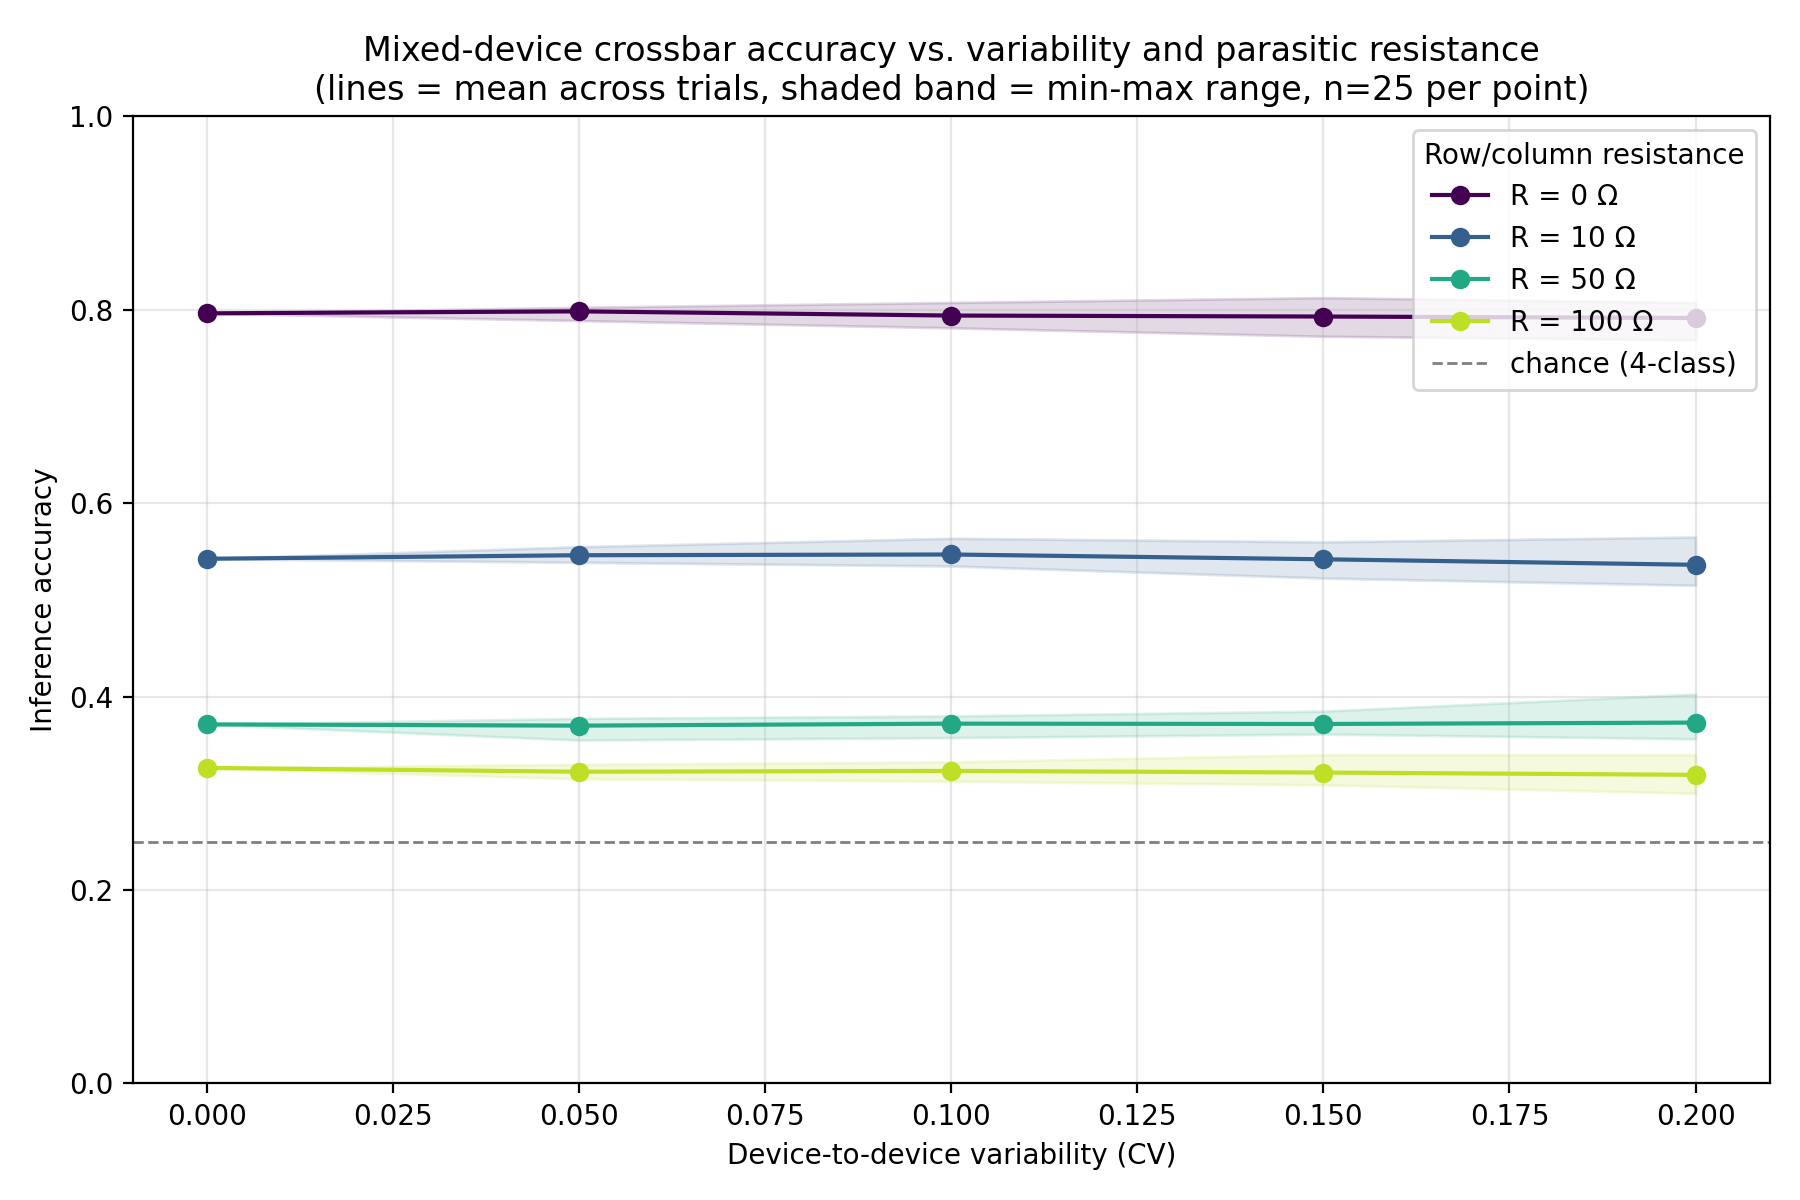
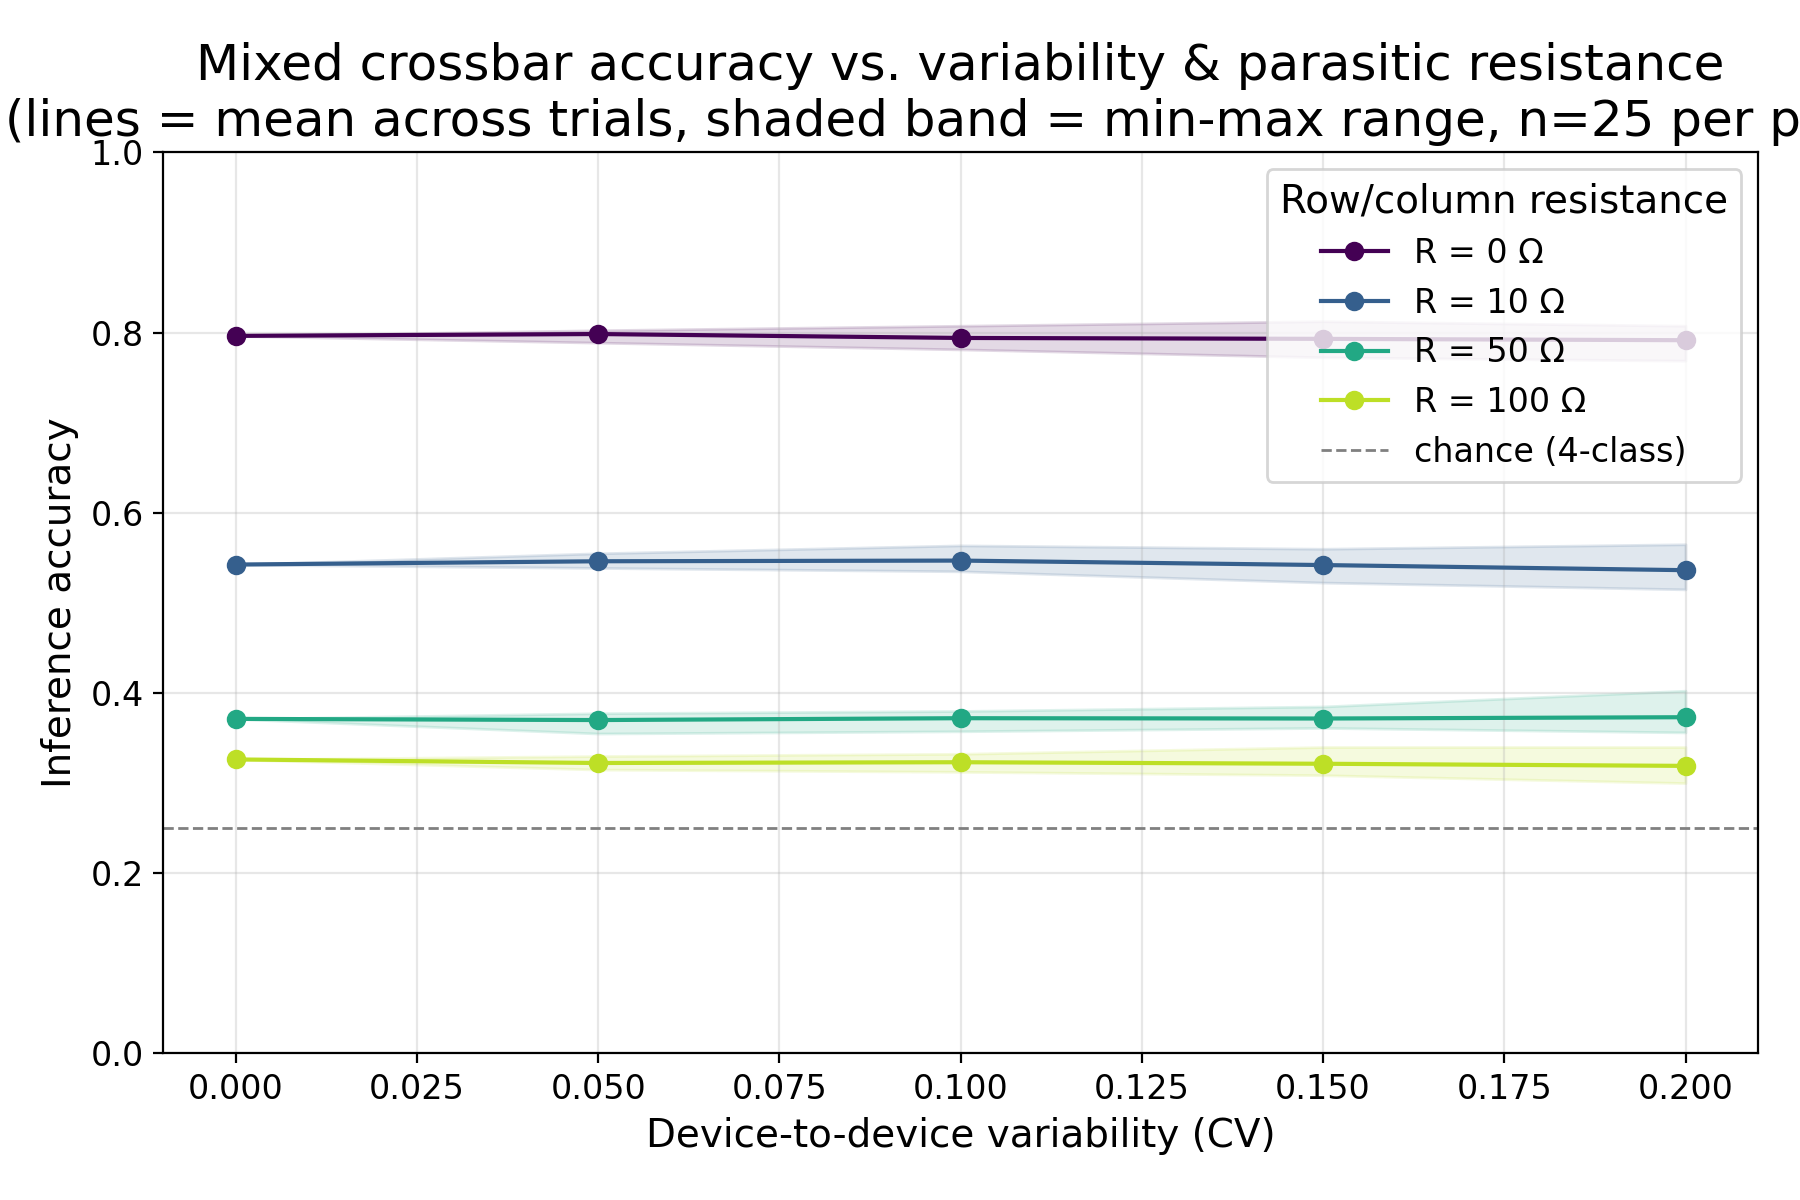
cleaning up directorys

Changed region(s): [[0.0, 0.0308, 1.0, 0.9867], [0.7778, 0.37, 0.9333, 0.4008]]

diff --git a/Sandbox/pakagedGoods/fractional_memcapacitor/plotting.py b/Sandbox/pakagedGoods/fractional_memcapacitor/plotting.py
@@ -53,9 +53,14 @@ def plot_validation_suiteV0(model, t_end=5.0, freq=1.0, Q_amp=100e-9, n_points=1
     sims = {a: model.simulate(t_end=t_end, freq=freq, Q_amp=Q_amp,
                               alpha=a, n_points=n_points) for a in alphas}
  
-    fig = plt.figure(figsize=(18, 10))
+    fig = plt.figure(figsize=(18, 5.8))
     fig.patch.set_facecolor('#0f0f1a')
-    gs = gridspec.GridSpec(2, 3, figure=fig, hspace=0.5, wspace=0.38)
+    gs = gridspec.GridSpec(
+        1, 3,
+        figure=fig,
+        wspace=0.65   # was 0.55
+    )
+    fig.subplots_adjust(left=0.05, right=0.98, bottom=0.16, top=0.90, wspace=0.70)
  
     def style(ax):
         ax.set_facecolor('#1a1a2e')
@@ -69,18 +74,38 @@ def plot_validation_suiteV0(model, t_end=5.0, freq=1.0, Q_amp=100e-9, n_points=1
         ax.set_title(title, color='white', fontsize=10)
  
     # ── 1: x(t) and C(t) dual-axis ──
-    ax1  = fig.add_subplot(gs[0, 0])
+    ax1 = fig.add_subplot(gs[0, 0])
     ax1b = ax1.twinx()
+
     style(ax1)
+    style(ax1b)
+
+    # Move the secondary axis farther to the right
+    ax1b.spines["right"].set_position(("axes", 1.10))
+
     for a, col in zip(alphas, colors):
         t, q, x, v, i = sims[a]
-        ax1.plot(t, np.clip(x, 0, 1), color=col, lw=1.6, label=f'α={a}')
-        ax1b.plot(t, model.C(x) * 1e9, color=col, lw=1.0, ls='--', alpha=0.45)
-    ax1b.set_ylabel('C (nF)', color='#aaa')
+        ax1.plot(t, np.clip(x, 0, 1),
+                color=col, lw=1.6, label=f'α={a}')
+        ax1b.plot(t, model.C(x) * 1e9,
+                color=col, lw=1.0, ls='--', alpha=0.45)
+
+    ax1.set_ylabel('state x', color='white')
+
+    # Push the label well away from the neighboring subplot
+    ax1b.set_ylabel('C (nF)', color='#aaa', labelpad=22)
+    ax1b.yaxis.set_label_coords(1.20, 0.5)
     ax1b.tick_params(colors='#aaa')
-    label(ax1, 't (s)', 'state x', 'x(t) & C(t)  [solid=x, dashed=C]')
-    ax1.legend(fontsize=7, loc='upper right',
-               facecolor='#1a1a2e', labelcolor='white', framealpha=0.6)
+
+    ax1.set_xlabel('t (s)', color='white')
+    ax1.set_title('x(t) & C(t)  [solid=x, dashed=C]',
+                color='white', fontsize=10)
+
+    ax1.legend(fontsize=7,
+            loc='upper right',
+            facecolor='#1a1a2e',
+            labelcolor='white',
+            framealpha=0.6)
  
     # ── 2: pinched hysteresis q-v ──
     ax2 = fig.add_subplot(gs[0, 1])
@@ -92,6 +117,7 @@ def plot_validation_suiteV0(model, t_end=5.0, freq=1.0, Q_amp=100e-9, n_points=1
     ax2.axhline(0, color='#555', lw=0.5)
     ax2.axvline(0, color='#555', lw=0.5)
     label(ax2, 'v (V)', 'q (nC)', 'q-v Pinched Hysteresis')
+    ax2.yaxis.set_label_coords(-0.14, 0.5)
     ax2.legend(fontsize=7, facecolor='#1a1a2e', labelcolor='white', framealpha=0.6)
  
     # ── 3: loop area vs alpha sweep ──
@@ -121,47 +147,8 @@ def plot_validation_suiteV0(model, t_end=5.0, freq=1.0, Q_amp=100e-9, n_points=1
     label(ax3, 'α', 'loop area (nC·V)', 'Hysteresis Area vs α')
     ax3.legend(fontsize=7, facecolor='#1a1a2e', labelcolor='white', framealpha=0.6)
  
-    # ── 4: C(t) colored by x at alpha=0.5 ──
-    ax4 = fig.add_subplot(gs[1, 0])
-    style(ax4)
-    t, q, x, v, i = sims[0.50]
-    sc = ax4.scatter(t, model.C(x) * 1e9, c=np.clip(x, 0, 1),
-                     cmap='plasma', s=4, alpha=0.85)
-    cb = plt.colorbar(sc, ax=ax4)
-    cb.set_label('x state', color='white')
-    cb.ax.yaxis.set_tick_params(color='white')
-    plt.setp(cb.ax.yaxis.get_ticklabels(), color='white')
-    label(ax4, 't (s)', 'C (nF)', 'C(t) colored by x  [α=0.5]')
- 
-    # ── 5: frequency sweep at alpha=0.5 ──
-    ax5 = fig.add_subplot(gs[1, 1])
-    style(ax5)
-    freqs   = [0.5, 1.0, 2.0, 5.0]
-    fcolors = plasma(np.linspace(0.15, 0.9, len(freqs)))
-    for f, col in zip(freqs, fcolors):
-        te = 5 / f
-        t2, q2, x2, v2, i2 = model.simulate(t_end=te, freq=f, Q_amp=Q_amp,
-                                              alpha=0.5, n_points=n_points)
-        idx = t2 >= te - 2 / f
-        ax5.plot(v2[idx], q2[idx] * 1e9, color=col, lw=1.6, label=f'{f} Hz')
-    ax5.axhline(0, color='#555', lw=0.5)
-    ax5.axvline(0, color='#555', lw=0.5)
-    label(ax5, 'v (V)', 'q (nC)', 'Freq sweep  [α=0.5]')
-    ax5.legend(fontsize=7, facecolor='#1a1a2e', labelcolor='white', framealpha=0.6)
- 
-    # ── 6: phase portrait x vs q ──
-    ax6 = fig.add_subplot(gs[1, 2])
-    style(ax6)
-    for a, col in zip(alphas, colors):
-        t, q, x, v, i = sims[a]
-        idx = t >= t_end - 2.0
-        ax6.plot(q[idx] * 1e9, np.clip(x[idx], 0, 1),
-                 color=col, lw=1.4, label=f'α={a}')
-    label(ax6, 'q (nC)', 'x (state)', 'Phase portrait: x vs q')
-    ax6.legend(fontsize=7, facecolor='#1a1a2e', labelcolor='white', framealpha=0.6)
- 
     fig.suptitle('Fractional-Order Biolek Memcapacitor — Validation Suite',
-                 color='white', fontsize=13, fontweight='bold', y=0.99)
+                 color='white', fontsize=17, fontweight='bold', y=0.99)
  
     plt.show()
 
@@ -185,7 +172,12 @@ def plot_validation_suite(model, t_end=5.0, freq=1.0, Q_amp=100e-9, n_points=100
 
     fig = plt.figure(figsize=(18, 10))
     fig.patch.set_facecolor('#0f0f1a')
-    gs = gridspec.GridSpec(2, 3, figure=fig, hspace=0.5, wspace=0.38)
+    gs = gridspec.GridSpec(
+        2, 3,
+        figure=fig,
+        hspace=0.5,
+        wspace=0.62   # was 0.38
+    )
 
     def style(ax):
         ax.set_facecolor('#1a1a2e')
@@ -252,46 +244,7 @@ def plot_validation_suite(model, t_end=5.0, freq=1.0, Q_amp=100e-9, n_points=100
     label(ax3, 'α', 'loop area (nC·V)', 'Hysteresis Area vs α  [0.1→1.2]')
     ax3.legend(fontsize=7, facecolor='#1a1a2e', labelcolor='white', framealpha=0.6)
 
-    # ── 4: C(t) colored by x at alpha=0.5 ──
-    ax4 = fig.add_subplot(gs[1, 0])
-    style(ax4)
-    t, q, x, v, i = sims[0.50]
-    sc = ax4.scatter(t, model.C(x) * 1e9, c=np.clip(x, 0, 1),
-                     cmap='plasma', s=4, alpha=0.85)
-    cb = plt.colorbar(sc, ax=ax4)
-    cb.set_label('x state', color='white')
-    cb.ax.yaxis.set_tick_params(color='white')
-    plt.setp(cb.ax.yaxis.get_ticklabels(), color='white')
-    label(ax4, 't (s)', 'C (nF)', 'C(t) colored by x  [α=0.5]')
-
-    # ── 5: frequency sweep at alpha=0.5 ──
-    ax5 = fig.add_subplot(gs[1, 1])
-    style(ax5)
-    freqs   = [0.5, 1.0, 2.0, 5.0]
-    fcolors = plasma(np.linspace(0.15, 0.9, len(freqs)))
-    for f, col in zip(freqs, fcolors):
-        te = 5 / f
-        t2, q2, x2, v2, i2 = model.simulate(t_end=te, freq=f, Q_amp=Q_amp,
-                                              alpha=0.5, n_points=n_points)
-        idx = t2 >= te - 2 / f
-        ax5.plot(v2[idx], q2[idx] * 1e9, color=col, lw=1.6, label=f'{f} Hz')
-    ax5.axhline(0, color='#555', lw=0.5)
-    ax5.axvline(0, color='#555', lw=0.5)
-    label(ax5, 'v (V)', 'q (nC)', 'Freq sweep  [α=0.5]')
-    ax5.legend(fontsize=7, facecolor='#1a1a2e', labelcolor='white', framealpha=0.6)
-
-    # ── 6: phase portrait x vs q ──
-    ax6 = fig.add_subplot(gs[1, 2])
-    style(ax6)
-    for a, col in zip(alphas, colors):
-        t, q, x, v, i = sims[a]
-        idx = t >= t_end - 2.0
-        ax6.plot(q[idx] * 1e9, np.clip(x[idx], 0, 1),
-                 color=col, lw=1.4, label=f'α={a}')
-    label(ax6, 'q (nC)', 'x (state)', 'Phase portrait: x vs q')
-    ax6.legend(fontsize=7, facecolor='#1a1a2e', labelcolor='white', framealpha=0.6)
-
-    fig.suptitle('Fractional-Order Biolek Memcapacitor — Validation Suite',
-                 color='white', fontsize=13, fontweight='bold', y=0.99)
+    fig.suptitle('Fractional-Order Biolek Memcapacitor',
+                 color='white', fontsize=18, fontweight='bold', y=0.99)
 
     plt.show()

diff --git a/Sandbox/pakagedGoods/Team_memristor/teamPlotting.py b/Sandbox/pakagedGoods/Team_memristor/teamPlotting.py
@@ -20,18 +20,18 @@ _STATE    = '#fb7185'   # rose
 
 def _style_ax(ax, title='', xlabel='', ylabel=''):
     ax.set_facecolor(_PANEL)
-    ax.tick_params(colors=_SUBTEXT, labelsize=8)
-    ax.xaxis.label.set_color(_SUBTEXT)
-    ax.yaxis.label.set_color(_SUBTEXT)
+    ax.tick_params(colors=_TEXT, labelsize=8)
+    ax.xaxis.label.set_color(_TEXT)
+    ax.yaxis.label.set_color(_TEXT)
     for spine in ax.spines.values():
-        spine.set_edgecolor(_BORDER)
+        spine.set_edgecolor(_TEXT)
     ax.grid(True, color=_BORDER, linewidth=0.5, linestyle='--', alpha=0.6)
     if title:
-        ax.set_title(title, color=_TEXT, fontsize=9, fontweight='bold', pad=6)
+        ax.set_title(title, color=_TEXT, fontsize=16, fontweight='bold', pad=6)
     if xlabel:
-        ax.set_xlabel(xlabel, fontsize=8)
+        ax.set_xlabel(xlabel, fontsize=8, color=_TEXT)
     if ylabel:
-        ax.set_ylabel(ylabel, fontsize=8)
+        ax.set_ylabel(ylabel, fontsize=8, color=_TEXT)
 
 
 def plot(model, t_end=2.0, freq=1.0, amp=1.5, voltage_fn=None):
@@ -58,7 +58,7 @@ def plot(model, t_end=2.0, freq=1.0, amp=1.5, voltage_fn=None):
     fig = plt.figure(figsize=(12, 9), facecolor=_BG)
     fig.suptitle(
         'TEAM Memristor',
-        color=_TEXT, fontsize=15, fontweight='bold', y=0.97
+        color=_TEXT, fontsize=22, fontweight='bold', y=0.97
     )
 
     gs = gridspec.GridSpec(

diff --git a/sim/plotting/SneakComp.py b/sim/plotting/SneakComp.py
@@ -51,7 +51,7 @@ def main():
 
     ax1.set_xlabel("Row/column parasitic resistance R (\u03a9)")
     ax1.set_ylabel("Inference accuracy")
-    ax1.set_title("Coupled vs. decoupled accuracy\n(shaded = min-max range, n=25/point)")
+    ax1.set_title("Coupled vs. decoupled accuracy\n(shaded = min-max range, n=25/point)", fontsize=16)
     ax1.set_ylim(0, 1)
     ax1.grid(alpha=0.3)
     ax1.legend(loc="lower left")
@@ -61,14 +61,14 @@ def main():
     ax2.bar([str(int(r)) for r in rs], sneak_cost, color="#7c3aed")
     ax2.set_xlabel("Row/column parasitic resistance R (\u03a9)")
     ax2.set_ylabel("Accuracy attributable to sneak-path coupling")
-    ax2.set_title("Sneak-path cost\n(decoupled accuracy \u2212 coupled accuracy)")
+    ax2.set_title("Sneak-path cost\n(decoupled accuracy \u2212 coupled accuracy)", fontsize=16)
     ax2.set_ylim(0, 0.5)
     ax2.grid(alpha=0.3, axis="y")
 
     for i, v in enumerate(sneak_cost):
         ax2.text(i, v + 0.01, f"{v:.3f}", ha="center")
 
-    fig.suptitle("Sneak-path current isolation: mixed TEAM/Biolek crossbar", fontsize=13)
+    fig.suptitle("Sneak-path current isolation: mixed TEAM/Biolek crossbar", fontsize=22)
     fig.tight_layout()
     fig.savefig(OUT_PATH, dpi=200)
     print(f"Saved plot to {OUT_PATH}")

diff --git a/sim/plotting/ParasticVarability.py b/sim/plotting/ParasticVarability.py
@@ -2,6 +2,15 @@ import json
 import numpy as np
 import matplotlib.pyplot as plt
 
+plt.rcParams.update({
+    "font.size": 14,
+    "axes.titlesize": 16,
+    "axes.labelsize": 14,
+    "legend.fontsize": 12,
+    "xtick.labelsize": 12,
+    "ytick.labelsize": 12,
+})
+
 RESULTS_PATH = "sim/training/parasitic_variability_grid_results.json"
 OUT_PATH = "sim/plotting/parasitic_variability_grid.png"
 
@@ -43,7 +52,7 @@ def main():
 
     ax.set_xlabel("Device-to-device variability (CV)")
     ax.set_ylabel("Inference accuracy")
-    ax.set_title("Mixed-device crossbar accuracy vs. variability and parasitic resistance\n"
+    ax.set_title("Mixed crossbar accuracy vs. variability & parasitic resistance\n"
                   "(lines = mean across trials, shaded band = min-max range, n=25 per point)")
     ax.axhline(0.25, color="gray", linestyle="--", linewidth=1, label="chance (4-class)")
     ax.legend(title="Row/column resistance", loc="upper right")

diff --git a/sim/plotting/fracPlotting.py b/sim/plotting/fracPlotting.py
@@ -161,8 +161,7 @@ def plot_validation_suiteV0(model, t_end=5.0, freq=1.0, Q_amp=100e-9, n_points=1
     ax6.legend(fontsize=7, facecolor='#1a1a2e', labelcolor='white', framealpha=0.6)
  
     fig.suptitle('Fractional-Order Biolek Memcapacitor — Validation Suite',
-                 color='white', fontsize=13, fontweight='bold', y=0.99)
- 
+                 color='white', fontsize=18, fontweight='bold', y=0.99)
     plt.show()
 
 def plot_validation_suite(model, t_end=5.0, freq=1.0, Q_amp=100e-9, n_points=1000):
@@ -292,6 +291,6 @@ def plot_validation_suite(model, t_end=5.0, freq=1.0, Q_amp=100e-9, n_points=100
     ax6.legend(fontsize=7, facecolor='#1a1a2e', labelcolor='white', framealpha=0.6)
 
     fig.suptitle('Fractional-Order Biolek Memcapacitor — Validation Suite',
-                 color='white', fontsize=13, fontweight='bold', y=0.99)
+                 color='white', fontsize=18, fontweight='bold', y=0.99)
 
     plt.show()

diff --git a/sim/plotting/varaibiltiySweepPlot.py b/sim/plotting/varaibiltiySweepPlot.py
@@ -4,6 +4,15 @@ import matplotlib.pyplot as plt
 from pathlib import Path
 
 
+plt.rcParams.update({
+    "font.size": 14,
+    "axes.titlesize": 17,
+    "axes.labelsize": 14,
+    "legend.fontsize": 12,
+    "xtick.labelsize": 12,
+    "ytick.labelsize": 12,
+})
+
 def main():
     root = Path(__file__).resolve().parents[2]
     results_file = root / "sim" / "training" / "variability_sweep_results.json"
